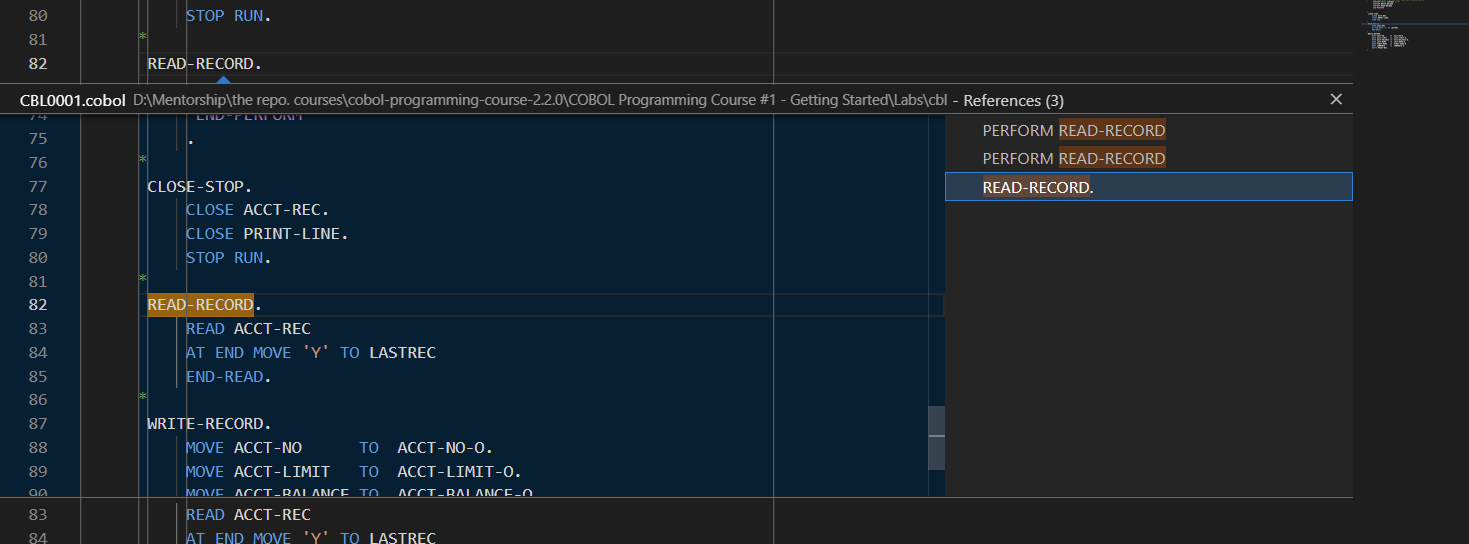
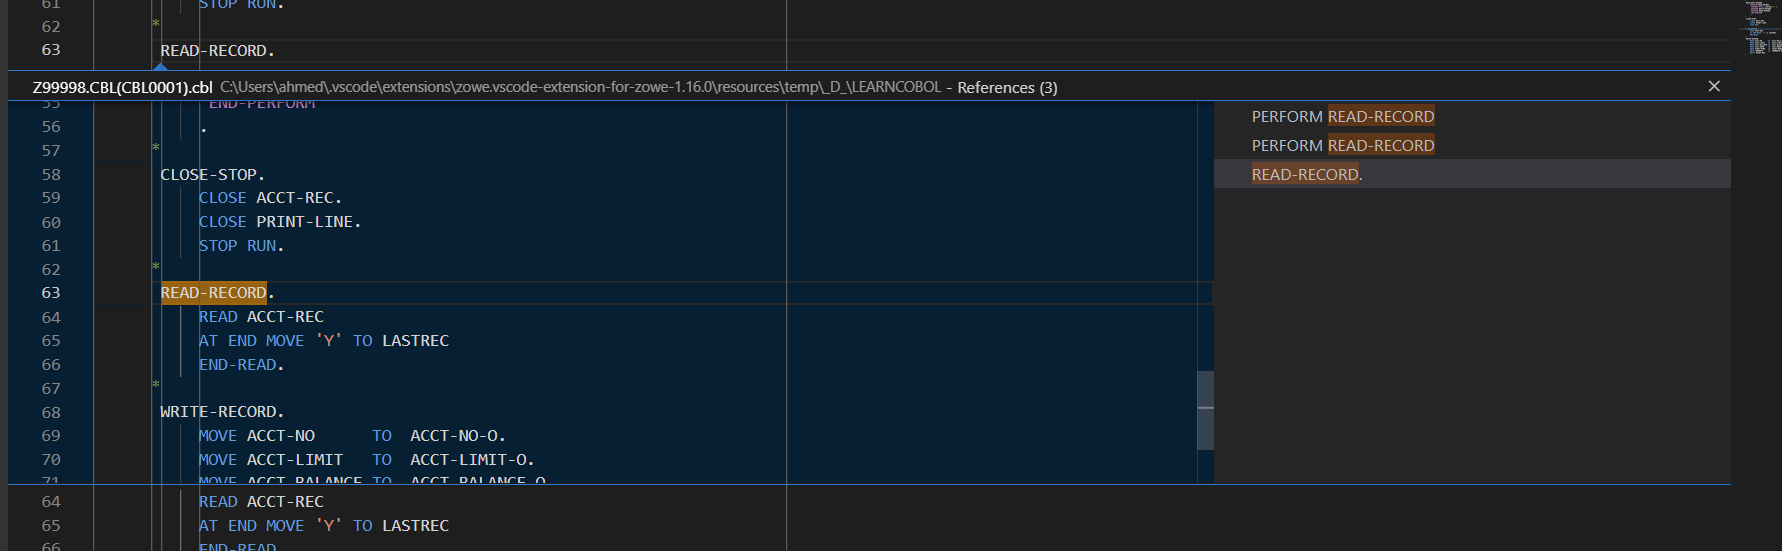
fixs

diff --git a/COBOL Programming Course #1 - Getting Started/COBOL Programming Course #1 - Getting Started.md b/COBOL Programming Course #1 - Getting Started/COBOL Programming Course #1 - Getting Started.md
@@ -231,8 +231,8 @@ The Zowe Explorer v1.5.0 release introduces profile editing. This allows you to 
 Follow these steps:
 
 1. Add your profile to any of the Zowe Explorer Trees.
-
-2. Click on the pencil icon to edit your profile. A dialog box opens displaying the current information in your profile, which you can edit as required.
+2. Right click on the profile you want to edit 
+3. from the dropdown choose **Update Profile**. A dialog box opens displaying the current information in your profile, which you can edit as required.
 
 ![](Images/code4z/code4z-img16.png)
 
@@ -467,9 +467,9 @@ Clicking on any of the items in the breadcrumb trail will highlight that element
 
 ### Jump to declaration / reference
 
-As you browse through code you will come across COBOL PERFORM statements or variable references.  Often you will need to navigate to the definition of that paragraph or variable to follow the execution of the code.  At line 50 of CBL0001 we see a set of perform statements.  Place the cursor within the name, READ-RECORD, on line 51, right click and select **Go to Definition** .  The editor then navigates to the READ-RECORD paragraph on line 62.  Instead of the right click, the same function can be reached by using the F12 key.
+As you browse through code you will come across COBOL PERFORM statements or variable references.  Often you will need to navigate to the definition of that paragraph or variable to follow the execution of the code.  At line 50 of CBL0001 we see a set of perform statements.  Place the cursor within the name, READ-RECORD, on line 51, right click and select **Go to Definition** .  The editor then navigates to the READ-RECORD paragraph on line 63.  Instead of the right click, the same function can be reached by using the F12 key.
 
-"Go to References" does the reverse of this operation and allows you to navigate from the definition of a paragraph or variable to all the places within the application that reference that paragraph or variable.  To demonstrate this, navigate to line 62 of CBL0001, which again is the declaration of the READ-RECORD paragraph.  To see all of the places where this paragraph is called, right click and select **Go to References** , or hit the key combination **SHIFT+F12** .  This will summon a new pop up dialog which shows all the references to this paragraph in the code, shown in Figure  6.
+"Go to References" does the reverse of this operation and allows you to navigate from the definition of a paragraph or variable to all the places within the application that reference that paragraph or variable.  To demonstrate this, navigate to line 63 of CBL0001, which again is the declaration of the READ-RECORD paragraph.  To see all of the places where this paragraph is called, right click and select **Go to References** , or hit the key combination **SHIFT+F12** .  This will summon a new pop up dialog which shows all the references to this paragraph in the code, shown in Figure  6.
 
  
 
@@ -590,7 +590,7 @@ While your cursor is placed on a variable or paragraph name, you can press **F12
 
 ![](Images/code4z/code4z-img3.png)
 
-*Figure 2. Go To Definition shows the point at which the USER-STREET variable is first defined.*
+*Figure 2. Go To Definition shows the point at which the USA-STATE variable is first defined.*
 
 ### Find All References
 
@@ -598,7 +598,7 @@ The **Find All References** functionality (**SHIFT+ALT+F12**) highlights all ref
 
 ![](Images/code4z/code4z-img4.png)
 
-*Figure 3. Find All References lists all references to the USER-STREET variable in the code.*
+*Figure 3. Find All References lists all references to the STREET-ADDR variable in the code.*
 
 ## Copybook Support
 
@@ -1389,13 +1389,12 @@ In this lab exercise you will connect to an IBM Z system, view a simple COBOL he
 
    If you installed Code4z, the list should include:
 
-   1. COBOL
-   2. COBOL Language Support
-   3. Code4z
-   4. Debugger for Mainframe
-   5. Explorer for Endevor
-   6. HLASM Language Support
-   7. Zowe Explorer
+   1. COBOL Language Support
+      2. Zowe Explorer
+      3. Explorer for Endevor
+      4. HLASM Language Support
+      5. Debugger for Mainframe
+      6. COBOL Control Flow
 
    In these exercises, you will only use the COBOL Language Support and Zowe Explorer extensions.
 
@@ -1472,6 +1471,8 @@ In this lab exercise you will connect to an IBM Z system, view a simple COBOL he
 
 ![](Images/image073.png)
 
+*Figure  13.  Accept connections with self-signed certifications*
+
 13. Press **Enter** for the rest of the prompts to choose the default values
 
 ![](Images/image073-1.png)
@@ -1482,7 +1483,7 @@ In this lab exercise you will connect to an IBM Z system, view a simple COBOL he
 
 ![](Images/image073-4.png)
 
-*Figure  13.  Accept connections with self-signed certifications*
+
 
 13. Result is Favorites in the Data Sets, Unix System Services, and Jobs sections as shown in Figure  14.
 
@@ -1594,7 +1595,7 @@ In this lab exercise you will connect to an IBM Z system, view a simple COBOL he
 
  
 
-27.   View the COBOL program execution by selecting **COBRUN:SYSOUT(105)** from the LearnCOBOL in the Jobs section of Zowe Explorer as shown in Figure  28.
+27.   View the COBOL program execution by selecting **COBRUN:SYSOUT(104)** from the LearnCOBOL in the Jobs section of Zowe Explorer as shown in Figure  28.
 
 ![](Images/image106.png)
 
@@ -1693,18 +1694,18 @@ zowe jobs submit ds "Z99998.JCL(HELLO)" --wfo
 To list spool files associated with this job id, issue:
 
 ```
-zowe jobs list sfbj JOB00906
+zowe jobs list sfbj JOB09413
 ```
 
-where `JOB00906` was returned from the previous command.
+where `JOB09413` was returned from the previous command.
 	
 To view a specific spool file (COBRUN:SYSOUT), issue:
 
 ```
-zowe jobs view sfbi JOB00906 105
+zowe jobs view sfbi JOB09413 104
 ```
 
-where `JOB00906` and `105` are obtained from the previous commands.
+where `JOB09413` and `104` are obtained from the previous commands.
 
 ![](Images/zowe/zowe-jobs-submit-ds-and-view-spool-output.png)
 
